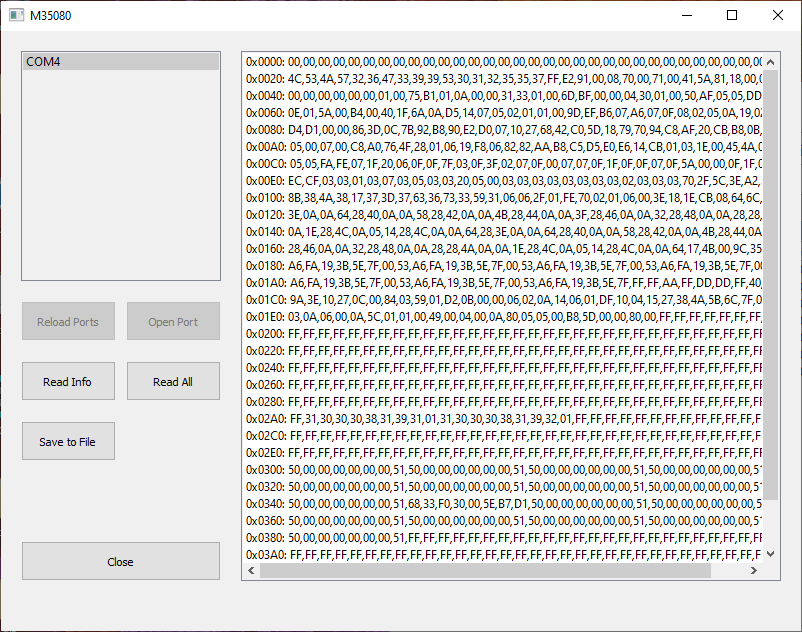
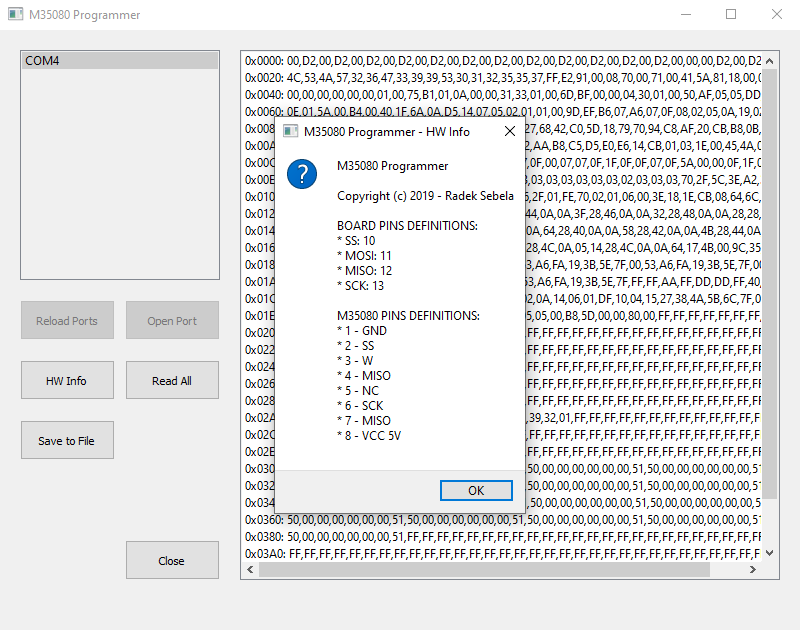
Application picture was updated.

diff --git a/ArduinoM35080/command.h b/ArduinoM35080/command.h
@@ -43,7 +43,7 @@ void cmdRemove(String &cmd) {
 }
 
 void cmdInfo() {
-    Serial.print("M35080 Programmer\nCopyright (c) 2019 Radek Sebela\n");
+    Serial.print("M35080 Programmer\n\nCopyright (c) 2019 - Radek Sebela\n\n");
     Serial.print("BOARD PINS DEFINITIONS:\n* SS: ");
     Serial.print(SS);
     Serial.print("\n* MOSI: ");
@@ -52,7 +52,7 @@ void cmdInfo() {
     Serial.print(MISO);
     Serial.print("\n* SCK: ");
     Serial.print(SCK);
-    Serial.print("\nM35080 PINS DEFINITIONS:\n");
+    Serial.print("\n\nM35080 PINS DEFINITIONS:\n");
     Serial.print("* 1 - GND\n");
     Serial.print("* 2 - SS\n");
     Serial.print("* 3 - W\n");
